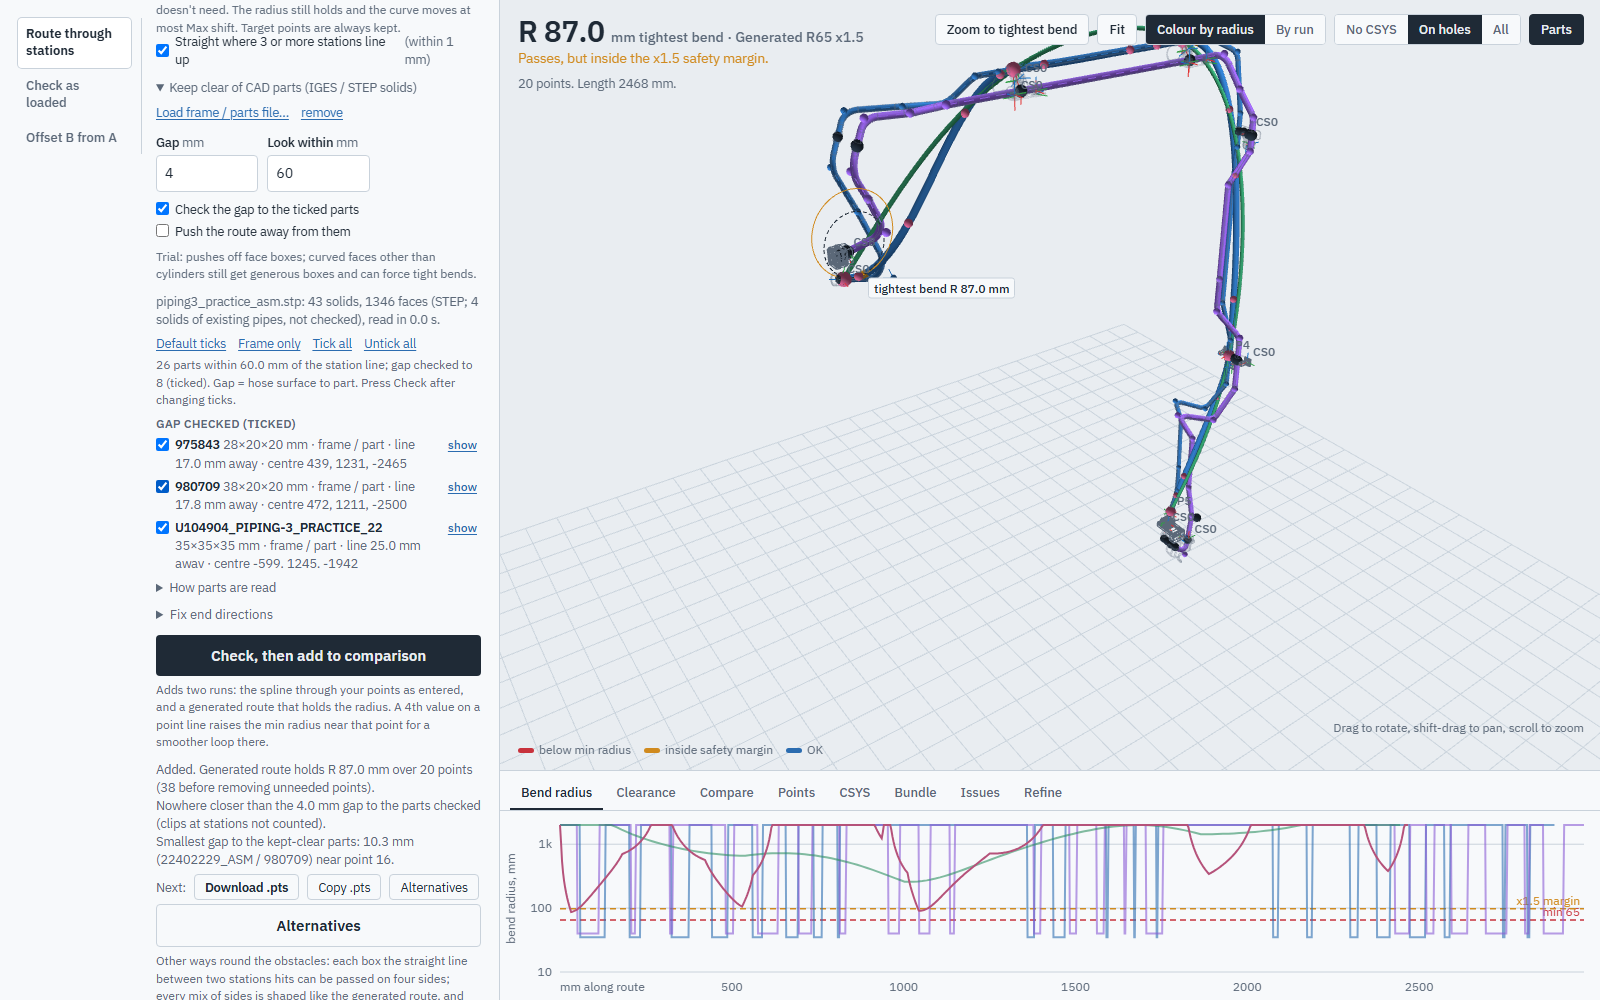
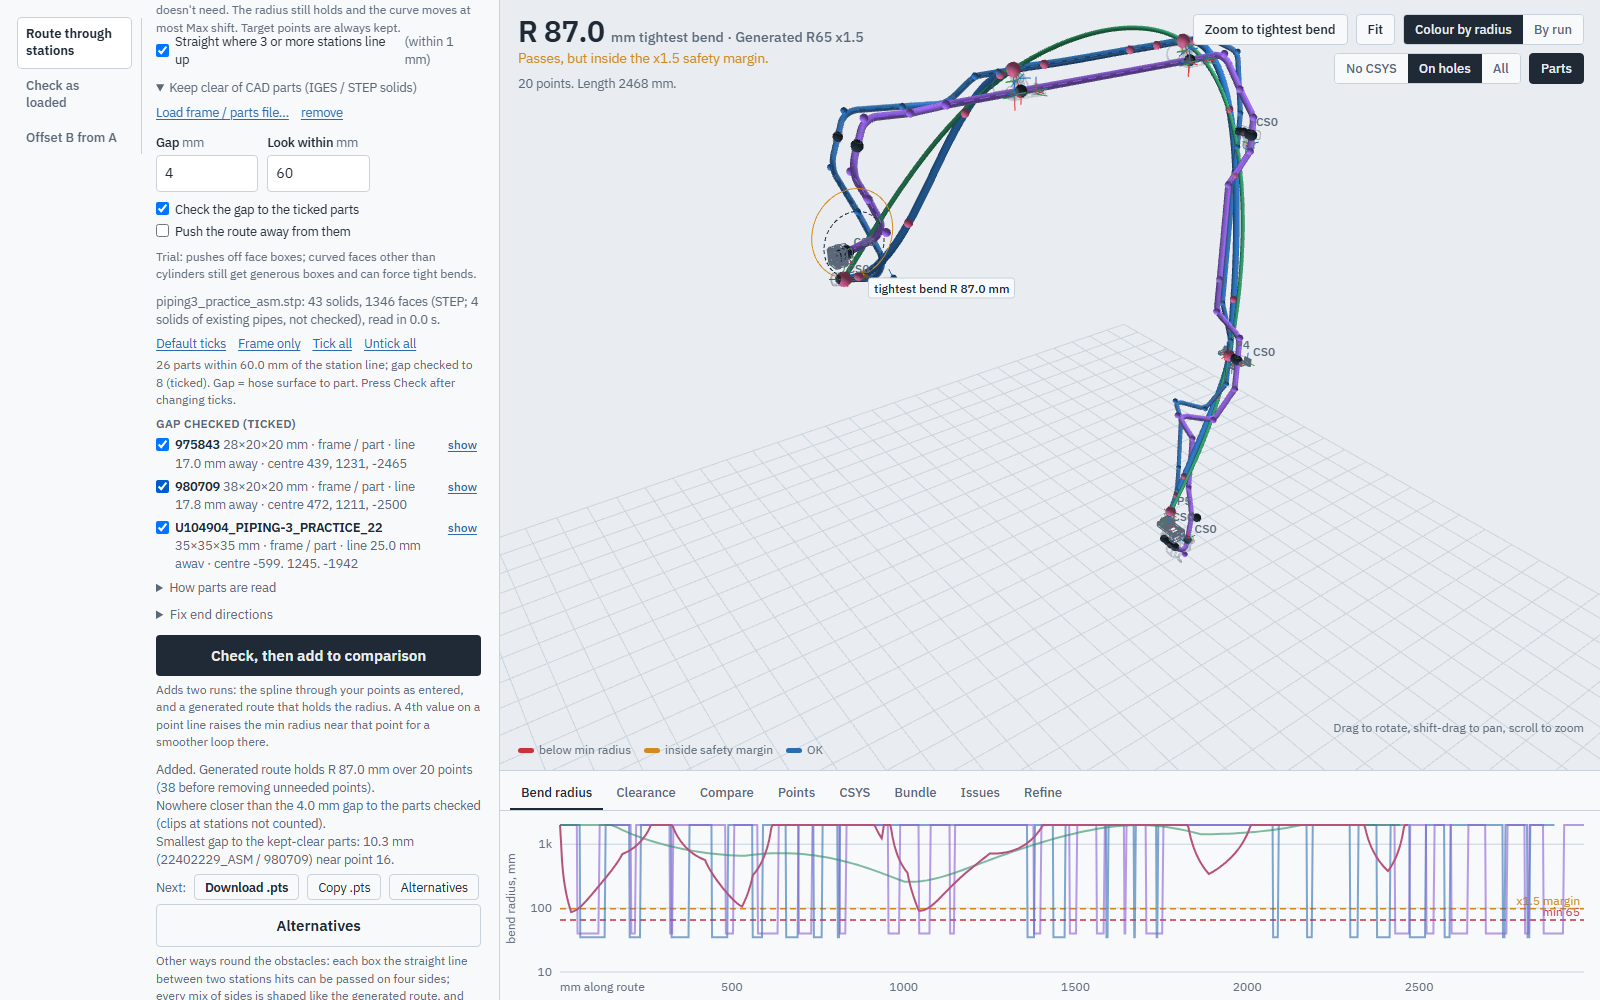
Q1-Q7 review section 11: suggest table, tools wrap, status, pick header, CSYS row
- Suggest table: no Make CSYS column; a row click opens the +n pick panel
- View tools wrap right-aligned (max 52% of the view) before the readout
- Status after opening: "Opened in 2.2 s. Stations and parts …"; the
  counts stay on the Assembly line only
- Pick panel: parent on its own muted line
- CSYS row line 2: no "·" separators, gap 4px 10px, Z select auto width

Changed region(s): [[0.6562, 0.0, 1.0, 0.093], [0.5938, 0.0, 0.6562, 0.031], [0.625, 0.062, 0.6562, 0.093]]

diff --git a/css/route-studio.css b/css/route-studio.css
@@ -78,11 +78,11 @@ body.dropping::after{content:"Drop to open";position:fixed;inset:10px;z-index:60
 main{display:grid;grid-template-rows:1fr 230px;min-width:0;min-height:0}
 .view{position:relative;min-height:0;overflow:hidden}
 #gl{position:absolute;inset:0;touch-action:none;cursor:grab}#gl:active{cursor:grabbing}
-.readout{position:absolute;left:18px;top:14px;pointer-events:none;max-width:60%}
+.readout{position:absolute;left:18px;top:14px;pointer-events:none;max-width:44%}
 .big{font-size:30px;font-weight:600;letter-spacing:-.02em;line-height:1.1;font-variant-numeric:tabular-nums}
 .big small{font-size:14px;font-weight:500;color:var(--muted);letter-spacing:0}
 .verdict{font-size:13.5px;margin-top:2px}.facts{font-size:12.5px;color:var(--muted);margin-top:5px;font-variant-numeric:tabular-nums}
-.tools{position:absolute;right:16px;top:14px;display:flex;gap:8px;flex-wrap:wrap;justify-content:flex-end}
+.tools{position:absolute;right:16px;top:14px;display:flex;gap:8px;flex-wrap:wrap;justify-content:flex-end;max-width:min(680px,52%)}
 .tools button,.seg button{border:1px solid var(--rule);border-radius:4px;background:var(--panel);color:var(--ink);font:500 13px var(--sans);padding:6px 11px;cursor:pointer}
 .seg{display:flex;border:1px solid var(--rule);border-radius:4px;overflow:hidden;background:var(--panel)}
 .seg button{border:0;border-radius:0;color:var(--muted)}
@@ -136,7 +136,7 @@ textarea[data-drop]{outline:2px dashed var(--ok);outline-offset:1px}
   .app{grid-template-columns:1fr;height:auto}
   aside{border-right:0;border-bottom:1px solid var(--rule)}
   main{grid-template-rows:58vh 260px}
-  .tools{left:16px;right:auto;justify-content:flex-start}.readout{top:52px;max-width:90%}
+  .tools{left:16px;right:auto;justify-content:flex-start;max-width:none}.readout{top:52px;max-width:90%}
   .big{font-size:24px}.help{display:none}
 }
 @media (prefers-reduced-motion:reduce){*{transition:none!important}}
@@ -171,7 +171,7 @@ textarea[data-drop]{outline:2px dashed var(--ok);outline-offset:1px}
 
 /* shell, mid widths: must follow the base .tools / .readout / .docktabs / .mod rules */
 @media (max-width:1180px){.mod{grid-template-columns:1fr;gap:10px}.tasks{position:static;flex-direction:row;flex-wrap:wrap;border-right:0;border-bottom:1px solid var(--rule);padding:0 0 8px}.tasks button{padding:6px 8px}}
-@media (max-width:1100px) and (min-width:861px){.tools{left:16px;right:16px;justify-content:flex-end}.readout{top:56px;max-width:45%}}
+@media (max-width:1100px) and (min-width:861px){.tools{left:16px;right:16px;justify-content:flex-end;max-width:none}.readout{top:56px;max-width:45%}}
 .docktabs{overflow-x:auto;scrollbar-width:thin}.docktabs button{white-space:nowrap;flex:none}
 .cdparts{max-height:240px;overflow:auto}.cdp{align-items:flex-start;margin:0 0 5px;font-size:12.5px}.cdp input{margin-top:3px}.cdp b{font-weight:600}
 .cdrow{display:flex;gap:6px;align-items:flex-start;border-radius:3px}.cdrow .cdp{flex:1;min-width:0}.cdrow.on{background:color-mix(in oklab,var(--warn) 14%,transparent)}
@@ -234,7 +234,7 @@ textarea[data-drop]{outline:2px dashed var(--ok);outline-offset:1px}
 
 /* assembly in 3D (asm-view.js): pick panel */
 .avpick{pointer-events:auto;max-width:340px;background:var(--panel);border:1px solid var(--rule);border-radius:4px;padding:8px 10px;font-size:12.5px;overflow-wrap:anywhere}
-.avpick .avhead{display:flex;gap:8px;align-items:baseline}.avpick .avhead>span{flex:1;min-width:0}.avpick .avhead b{font-weight:600}
+.avpick .avhead{display:flex;gap:8px;align-items:baseline}.avpick .avpar{color:var(--muted)}.avpick .avhead>span{flex:1;min-width:0}.avpick .avhead b{font-weight:600}
 .avpick .avx{flex:none;border:0;background:none;color:var(--muted);font:16px/1 var(--sans);padding:0 2px;cursor:pointer}.avpick .avx:hover{color:var(--ink)}
 .avpick .avgrid{display:grid;grid-template-columns:auto 1fr;gap:0 10px;font:11.5px/1.5 var(--mono);margin:5px 0}.avpick .avgrid>span:nth-child(odd){color:var(--muted)}
 .avpick .avfact{color:var(--muted);margin-top:2px}
@@ -249,7 +249,8 @@ textarea[data-drop]{outline:2px dashed var(--ok);outline-offset:1px}
 /* CSYS made here, dock tab (csys-make.js) */
 .mkrow{padding:6px 0;border-bottom:1px solid var(--rule);font-size:12.5px}
 .mkrow .mk1{display:flex;flex-wrap:wrap;gap:4px 6px;align-items:center}
-.mkrow .mk2{display:flex;flex-wrap:wrap;gap:4px 8px;align-items:center;font:12px var(--mono);color:var(--muted);margin-top:3px}
+.mkrow .mk2{display:flex;flex-wrap:wrap;gap:4px 10px;align-items:center;font:12px var(--mono);color:var(--muted);margin-top:3px}
+.mkrow .mk2 label{display:inline-flex;gap:4px;align-items:center;margin:0;font:inherit}.mkrow select.mkzs{width:auto;min-width:0;padding:1px 2px}
 .mkrow input,.mkrow select{font:12px var(--mono);padding:1px 4px;border:1px solid transparent;border-radius:3px;background:none;color:var(--ink);width:auto}
 .mkrow input:hover,.mkrow select:hover{border-color:var(--rule)}.mkrow input:focus{border-color:var(--focus);background:var(--field)}
 .mkrow .mkname{font-weight:600;width:16em}.mkrow .mko{width:20em}.mkrow .mkz{width:16em;border-color:var(--rule);background:var(--field)}
@@ -258,7 +259,7 @@ textarea[data-drop]{outline:2px dashed var(--ok);outline-offset:1px}
 .mkadd{display:flex;flex-wrap:wrap;gap:6px;align-items:center;margin-top:8px}.mkadd label{display:flex;gap:6px;align-items:center;margin:0}.mkadd input{width:16em}
 /* Suggest extra clamps (clamp-suggest.js) */
 .sglist table{font-size:12.5px;margin-top:6px}.sglist th,.sglist td{padding:4px 6px;white-space:normal;vertical-align:top}
-.sglist td.n,.sglist th{white-space:nowrap}.sglist tr.on td,.sglist tbody tr:hover td{background:var(--field)}
+.sglist td.n,.sglist th{white-space:nowrap}.sglist th .unit{font-weight:400}.sglist tbody tr{cursor:pointer}.sglist tr.on td,.sglist tbody tr:hover td{background:var(--field)}
 .sgchip{display:inline-block;font:600 11.5px var(--sans);color:var(--warn);border:1px solid var(--warn);border-radius:3px;padding:0 4px}
 .sgtag{display:inline-block;font-size:11.5px;color:var(--warn);border:1px solid var(--warn);border-radius:3px;padding:0 5px;margin-right:4px}
 .sglist .sggrp>summary{font-size:12.5px;color:var(--ink);margin-top:6px}.sglist .sggrp{margin:4px 0}

diff --git a/js/clamp-suggest.js b/js/clamp-suggest.js
@@ -94,17 +94,15 @@ function render(){const box=$('sgList'),R=SG.res;if(!R){box.innerHTML='';return;
   const G=groups(R),fold=R.list.length>12;
   const row=i=>{const q=R.list[i],m=mountTxt(q),lk=likeTxt(q);
     return`<tr data-i="${i}"${SG.on===i?' class="on"':''}><td class="n"><span class="sgchip">+${i+1}</span></td><td class="n">${f0(q.s)}</td>
-      <td>${esc(q.why)}<div class="unit">${m?esc(m):`<span class="sgtag">needs a bracket</span>no part within ${f0(R.reach)} mm`}${lk?' · '+esc(lk):''}</div></td>
-      <td><button type="button" data-mk="${i}">Make CSYS</button></td></tr>`;};
+      <td>${esc(q.why)}<div class="unit">${m?esc(m):`<span class="sgtag">needs a bracket</span>no part within ${f0(R.reach)} mm`}${lk?' · '+esc(lk):''}</div></td></tr>`;};
   box.innerHTML=G.map(g=>`<details class="sggrp"${fold?'':' open'}><summary>${esc(supName(g.a))} → ${esc(supName(g.b))} · ${f0(g.b.s-g.a.s)} mm · ${g.rows.length} clamp${g.rows.length>1?'s':''}</summary>
-    <table><thead><tr><th></th><th>along, mm</th><th>why</th><th></th></tr></thead><tbody>${g.rows.map(row).join('')}</tbody></table></details>`).join('')+
+    <table><thead><tr><th></th><th>along, mm</th><th>why <span class="unit">· click a row for Make CSYS</span></th></tr></thead><tbody>${g.rows.map(row).join('')}</tbody></table></details>`).join('')+
     (R.spans.length?`<details class="sgspans"><summary>Spans before (${R.spans.length})</summary>${R.spans.map(s=>`<div class="unit">${esc(s.from)} → ${esc(s.to)}: ${f0(s.len)} mm</div>`).join('')}</details>`:'');
-  box.querySelectorAll('[data-mk]').forEach(b=>b.onclick=()=>make(R.list[+b.dataset.mk]));
   // row hover ↔ the dot in 3D (as the Points table); click picks it
   box.querySelectorAll('tr[data-i]').forEach(tr=>{const i=+tr.dataset.i,q=R.list[i];
     tr.onpointerenter=()=>{if(marker){marker.position.set(...q.p);marker.visible=true;draw();}};
     tr.onpointerleave=()=>{if(marker){marker.visible=false;draw();}};
-    tr.onclick=e=>{if(e.target.closest('button'))return;if(typeof asmSetPick==='function')asmSetPick({kind:'suggest',i});};});}
+    tr.onclick=()=>{if(typeof asmSetPick==='function')asmSetPick({kind:'suggest',i});};});}
 const make=q=>typeof csysMake==='function'?csysMake(q.p,q.t,null,'RS_CLAMP'):null;
 function makeAll(){SG.res.list.forEach(make);say(`${SG.res.list.length} CSYS made (Z along the route), listed in the CSYS tab for Download .stp.`);}
 const asStation=(q,i)=>({name:`NEW_CLAMP_${i+1}`,c:q.p,d:q.t,part:q.like?q.like.part:''});

diff --git a/tests/ui-walk.js b/tests/ui-walk.js
@@ -40,7 +40,7 @@ const server = http.createServer((q, s) => {
   await go("hose", "route"); step("Hose / Cable · Route through stations");
   // the page's own way in: top Open… (falls back to the section's Load link if the assembly does not reach the stations list)
   await pg.setInputFiles("#shFile", ASM); flows[cur].loads++;
-  await until("shStatus", /^Open:/, 60); await pg.waitForTimeout(3000); step("Open… piping3_practice_asm.stp", (await text("shStatus")).slice(0, 120));
+  await until("shStatus", /^Opened in/, 60); await pg.waitForTimeout(3000); step("Open… piping3_practice_asm.stp", (await text("shStatus")).slice(0, 120));
   if (await expand("csBox")) step("open “Stations from clamps”");
   await pg.fill("#csD", "12"); await pg.dispatchEvent("#csD", "change"); flows[cur].typedD++; await pg.waitForTimeout(300); step("Hose Ø 12");
   if (!(await pg.evaluate(() => document.querySelectorAll("#csList .csrow").length))) {
@@ -87,7 +87,7 @@ const server = http.createServer((q, s) => {
     await pg.evaluate(() => localStorage.clear()); await pg.reload(); await pg.waitForTimeout(800);
     await go("hose", "route"); step("Hose / Cable · Route through stations");
     await pg.setInputFiles("#shFile", FRAME); flows[cur].loads++;
-    await until("shStatus", /^Open:/, 60); await pg.waitForTimeout(3000); step("Open… frame_asm.stp", (await text("shStatus")).slice(0, 120));
+    await until("shStatus", /^Opened in/, 60); await pg.waitForTimeout(3000); step("Open… frame_asm.stp", (await text("shStatus")).slice(0, 120));
     await pg.evaluate(() => { document.querySelectorAll(".taskpane, #panBend").forEach(e => e.scrollTop = 0); window.scrollTo(0, 0); });
     await shot("F1-header");
     // pick: what the 3D click would set, centred like the “show” button of CSYS made here

diff --git a/js/csys-make.js b/js/csys-make.js
@@ -72,9 +72,9 @@ function render(){const n=MK.list.length;
     <div class="mk1"><input class="mkname" value="${esc(c.name)}" aria-label="Name" title="Name (Creo shows it as the CSYS name); click to edit">
       <button type="button" data-show>show</button><button type="button" data-flip>flip Z</button><button type="button" data-turn>X +90°</button><button type="button" class="mkdel" data-del aria-label="Delete ${esc(c.name)}" title="Delete">×</button></div>
     <div class="mk2"><label>at <input class="mko" value="${xyz(c.o)}" spellcheck="false" aria-label="Origin X Y Z"></label>
-      <label>· Z <select class="mkzs" aria-label="Z axis">${AXES.map(([w])=>`<option${w===za?' selected':''}>${w}</option>`).join('')}<option value="typed"${za?'':' selected'}>typed…</option></select></label>
+      <label>Z <select class="mkzs" aria-label="Z axis">${AXES.map(([w])=>`<option${w===za?' selected':''}>${w}</option>`).join('')}<option value="typed"${za?'':' selected'}>typed…</option></select></label>
       <input class="mkz" value="${xyz(c.z)}" spellcheck="false" aria-label="Z as dX dY dZ"${za?' hidden':''}>
-      <span>· X ${xa||xyz(c.x)}</span></div></div>`;}).join('')||
+      <span>X ${xa||xyz(c.x)}</span></div></div>`;}).join('')||
     '<p class="hint">None yet. Click a part, hole or CSYS in the 3D view and choose “New CSYS here”, or type a point below.</p>';
   $('mkList').querySelectorAll('.mkrow').forEach(row=>{const i=+row.dataset.i,c=MK.list[i];
     row.querySelector('.mkname').onchange=e=>{c.name=CsysMake.stepName(e.target.value);done(`Renamed to ${c.name}.`);};

diff --git a/js/asm-view.js b/js/asm-view.js
@@ -135,7 +135,8 @@ function panel(){
   const radio=a=>`<button type="button" role="radio" aria-checked="${!!a.on}" tabindex="${a.on?0:-1}" data-a="${acts.indexOf(a)}"${a.title?` title="${esc(a.title)}"`:''}>${esc(a.label)}</button>`;
   const grp=g=>{const A=acts.filter(a=>gname(a)===g).sort((a,b)=>(a.order||5)-(b.order||5)),rows=A.filter(a=>a.row),plain=A.filter(a=>!a.row);
     return`<div class="avgrp"><span class="unit">${esc(g)}</span>${plain.length?`<div class="avacts">${plain.map(btn).join('')}</div>`:''}${rows.length?`<div class="seg" role="radiogroup" aria-label="${esc(g)}">${rows.map(radio).join('')}</div>`:''}</div>`;};
-  el.innerHTML=`<div class="avhead"><span><b>${esc(F.name)}</b> <span class="unit">· ${esc(F.kind)}${F.parent?' · '+esc(F.parent):''}</span></span><button type="button" class="avx" data-x aria-label="Close (Esc)" title="Close (Esc)">×</button></div>`+
+  el.innerHTML=`<div class="avhead"><span><b>${esc(F.name)}</b> <span class="unit">· ${esc(F.kind)}</span></span><button type="button" class="avx" data-x aria-label="Close (Esc)" title="Close (Esc)">×</button></div>`+
+    (F.parent?`<div class="avpar">${esc(F.parent)}</div>`:'')+
     (F.grid.length?`<div class="avgrid">${F.grid.join('')}</div>`:'')+line.map(t=>`<div class="avfact">${esc(t)}</div>`).join('')+
     names.map(grp).join('')+(AV.msg?`<div class="avmsg">${esc(AV.msg)}</div>`:'');
   el.hidden=false;

diff --git a/js/shell.js b/js/shell.js
@@ -84,10 +84,10 @@ function openAssembly(f){
   const hose=st.mod==='hose'&&st.task.hose==='route'&&$('shape').value!=='arc';
   if(!hose)go('pipe',st.task.pipe==='clamps'||st.task.pipe==='offset'?st.task.pipe:'asm');
   else{$('csBox').open=true;$('cdBox').open=true;}
-  const where=hose?`stations and parts to keep clear of in ${label('hose','route')}; also open in Pipe`:`in ${label('pipe',st.task.pipe)}`;
+  const where=hose?`Stations and parts to keep clear of are in ${label('hose','route')}; also open in Pipe.`:`Open in ${label('pipe',st.task.pipe)}.`;
   document.addEventListener('asm:loaded',e=>{const a=e.detail;if(!a||a.name!==f.name)return;
     if(hose&&typeof bcFromAsm==='function')bcFromAsm(a);
-    say(`${a.done||'Open.'} ${f.name}: ${where}.`);
+    say(`Opened in ${(a.secs||0).toFixed(1)} s. ${where}`);
     $('shAsm').hidden=false;$('shAsmTxt').textContent=asmLine(a);},{once:true});
   asmLoad(f);}
 window.openAssembly=openAssembly;window.goTask=go;

diff --git a/js/asm-ui.js b/js/asm-ui.js
@@ -92,7 +92,7 @@ function asmApply(note){
 }
 function asmApplied(r,note,t0){
   ASM.r=r;TH.pick={};TH.last=null;TH.cmp=null;const ms=Math.round(performance.now()-t0),s=r.summary,parts=r.instances.filter(i=>i.solids).length;
-  ASM.done=`Open: ${parts} parts, ${r.csys.length} CSYS, ${r.pipes.length} pipe${r.pipes.length===1?'':'s'}, ${(ms/1000).toFixed(1)} s.`;
+  ASM.secs=ms/1000;
   runs=runs.filter(x=>!(x.asm&&x.asm.file===ASM.name));
   const nOv=Object.keys(ASM.ov).length,tree=`${parts} part${parts===1?'':'s'} with solids (${s.solids} solid${s.solids===1?'':'s'}), ${s.csys} coordinate systems${nOv?`, ${nOv} part${nOv>1?'s':''} marked by hand`:''}`;
   const nH=r.pipes.filter(p=>p.kind==='hose').length,nP=r.pipes.length-nH,found=[nP?`${nP} pipe${nP===1?'':'s'}`:'',nH?`${nH} hose${nH===1?'':'s'}`:''].filter(Boolean).join(', ');
